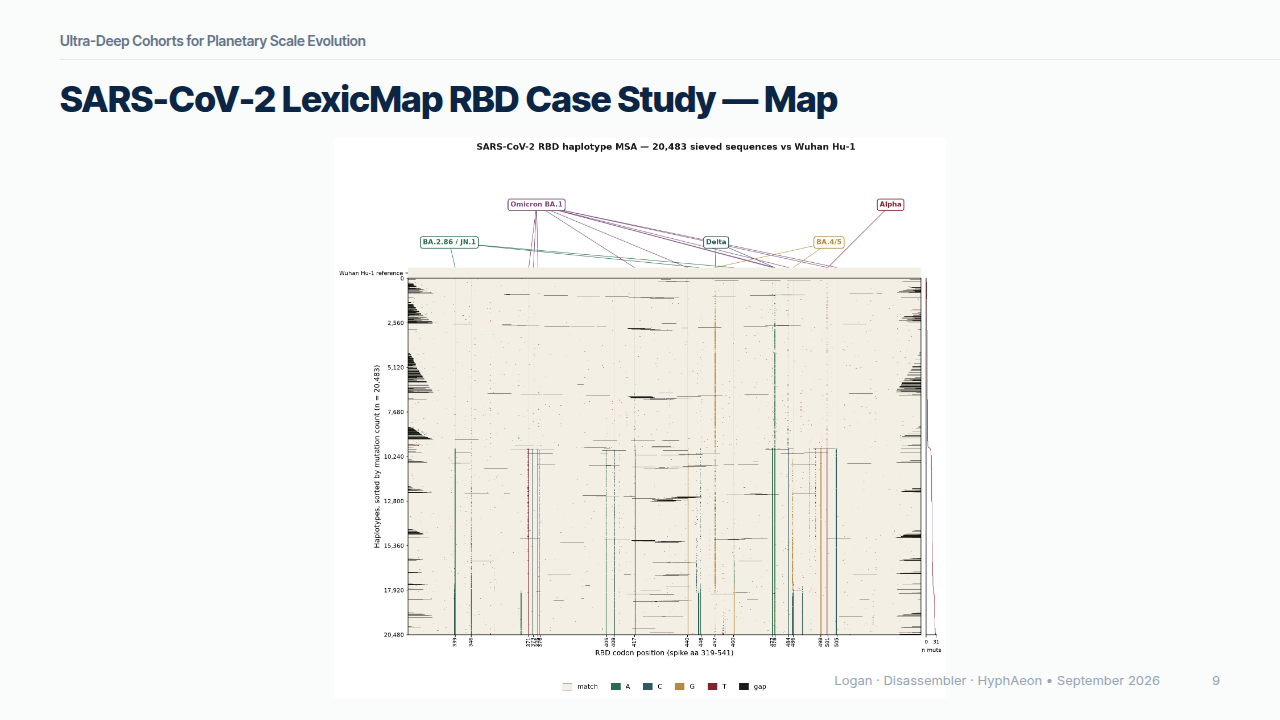
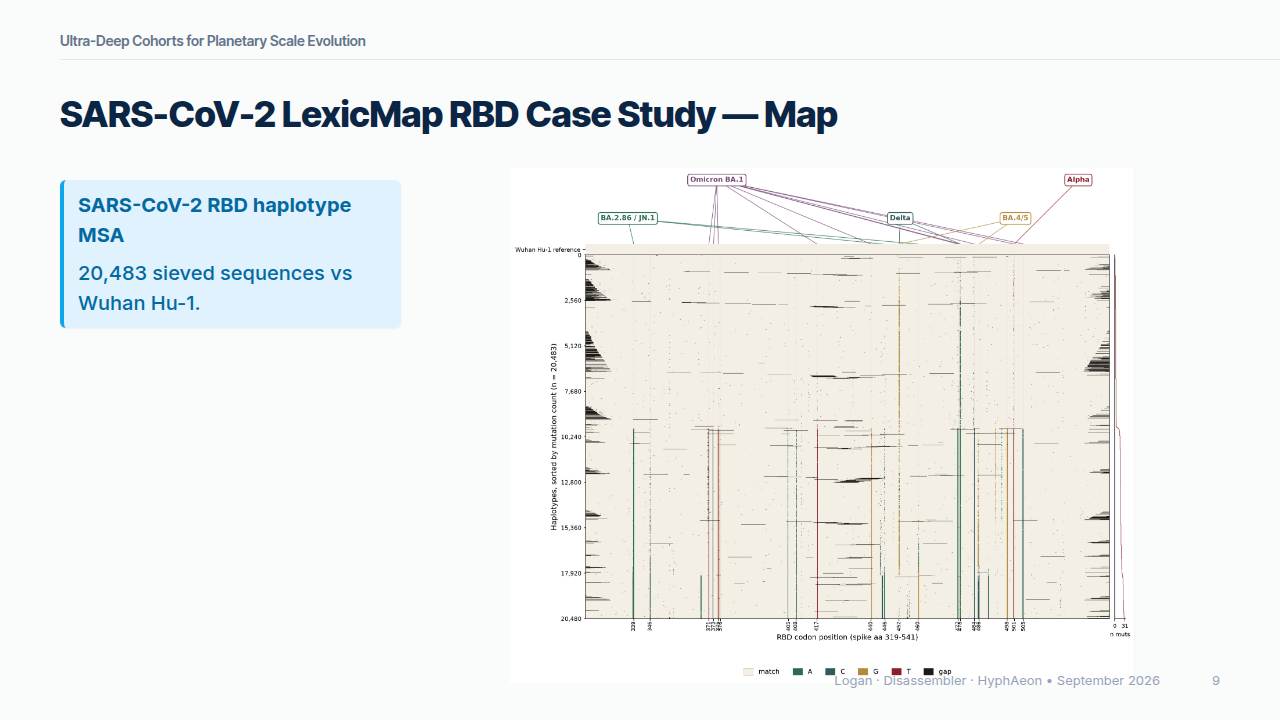
heatmap slide adjustments

diff --git a/ultra_deep_cohorts_Sep_2026/index.html b/ultra_deep_cohorts_Sep_2026/index.html
@@ -90,7 +90,9 @@
 <header>Ultra-Deep Cohorts for Planetary Scale Evolution</header>
 
 <h1 id="sars-cov-2-lexicmap-rbd-case-study--map">SARS-CoV-2 LexicMap RBD Case Study — Map</h1>
-<div class="figure figure-bare" style="--h:560px"><img src="assets/rbd-msa-map.png" alt="" /></div><footer>Logan · Disassembler · HyphAeon • September 2026</footer>
+<div class="cols" style="--gap:24px;grid-template-columns:0.30fr 0.70fr"><div class="col"><div class="note accent-sky"><p><strong>SARS-CoV-2 RBD haplotype MSA</strong></p>
+<p>20,483 sieved sequences vs Wuhan Hu-1.</p>
+</div></div><div class="col"><div class="figure figure-bare" style="--h:515px"><img src="assets/rbd-msa-map.jpeg" alt="" /></div></div></div><footer>Logan · Disassembler · HyphAeon • September 2026</footer>
 </section>
 </foreignObject></svg><svg data-marpit-svg="" viewBox="0 0 1280 720"><foreignObject width="1280" height="720"><section id="10" data-paginate="true" data-header="Ultra-Deep Cohorts for Planetary Scale Evolution" data-footer="Logan · Disassembler · HyphAeon • September 2026" data-class="compact middle" data-theme="deckkit" lang="en-US" class="compact middle" data-marpit-pagination="10" style="--paginate:true;--header:Ultra-Deep Cohorts for Planetary Scale Evolution;--footer:Logan · Disassembler · HyphAeon • September 2026;--class:compact middle;--theme:deckkit;" data-marpit-pagination-total="12" data-size="16:9">
 <header>Ultra-Deep Cohorts for Planetary Scale Evolution</header>

diff --git a/ultra_deep_cohorts_Sep_2026/slides.md b/ultra_deep_cohorts_Sep_2026/slides.md
@@ -175,7 +175,15 @@ Kmindex pathway was tested via 11-strain panel of Covid spike CDS. Goal was to d
 
 # SARS-CoV-2 LexicMap RBD Case Study — Map
 
-::: figure src="assets/rbd-msa-map.png" h=560px bare
+::: cols ratio="0.30fr 0.70fr" gap=24px
+::: note accent=sky
+**SARS-CoV-2 RBD haplotype MSA**
+
+20,483 sieved sequences vs Wuhan Hu-1.
+:::
++++
+::: figure src="assets/rbd-msa-map.jpeg" h=515px bare
+:::
 :::
 
 ---
